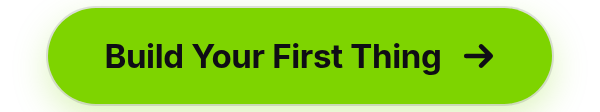
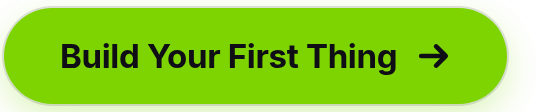
docs: left-align the CTA and top-align the stat cells

diff --git a/README.md b/README.md
@@ -16,10 +16,10 @@
 
 <table align="center">
   <tr>
-    <td align="center" width="200"><h3>#4</h3><sub>all-time on viberank,<br>of about 1,400</sub></td>
-    <td align="center" width="200"><h3>520B</h3><sub>tokens through<br>Claude Code</sub></td>
-    <td align="center" width="200"><h3>30,000+</h3><sub>GitHub contributions<br>in the last year</sub></td>
-    <td align="center" width="200"><h3>7,000+</h3><sub>people through my<br>StartupBros programs</sub></td>
+    <td align="center" valign="top" width="200"><h3>#4</h3><sub>all-time on viberank,<br>of about 1,400</sub></td>
+    <td align="center" valign="top" width="200"><h3>520B</h3><sub>tokens through<br>Claude Code</sub></td>
+    <td align="center" valign="top" width="200"><h3>30,000+</h3><sub>GitHub contributions<br>in the last year</sub></td>
+    <td align="center" valign="top" width="200"><h3>7,000+</h3><sub>people through my<br>StartupBros programs</sub></td>
   </tr>
 </table>
 
@@ -69,7 +69,7 @@ Tested how-tos for building with Claude Code, measured before we publish.
 
 For people who don't code for a living and want to build with AI anyway. Guided projects you actually finish, a live workshop with me every month, and members building alongside you, on 10 to 15 hours a week. One payment, lifetime access, and the Open Door Guarantee: 30 days to try everything, full refund if it's not for you.
 
-<a href="https://houseofvibe.ai/?utm_source=github&utm_medium=profile&utm_campaign=readme-cta"><img src="assets/cta.png" width="300" alt="Build Your First Thing"></a>
+<a href="https://houseofvibe.ai/?utm_source=github&utm_medium=profile&utm_campaign=readme-cta"><img src="assets/cta.png" width="272" alt="Build Your First Thing"></a>
 
 Write code for a living? Send this page to the friend with a day job who keeps asking you about AI.
 
